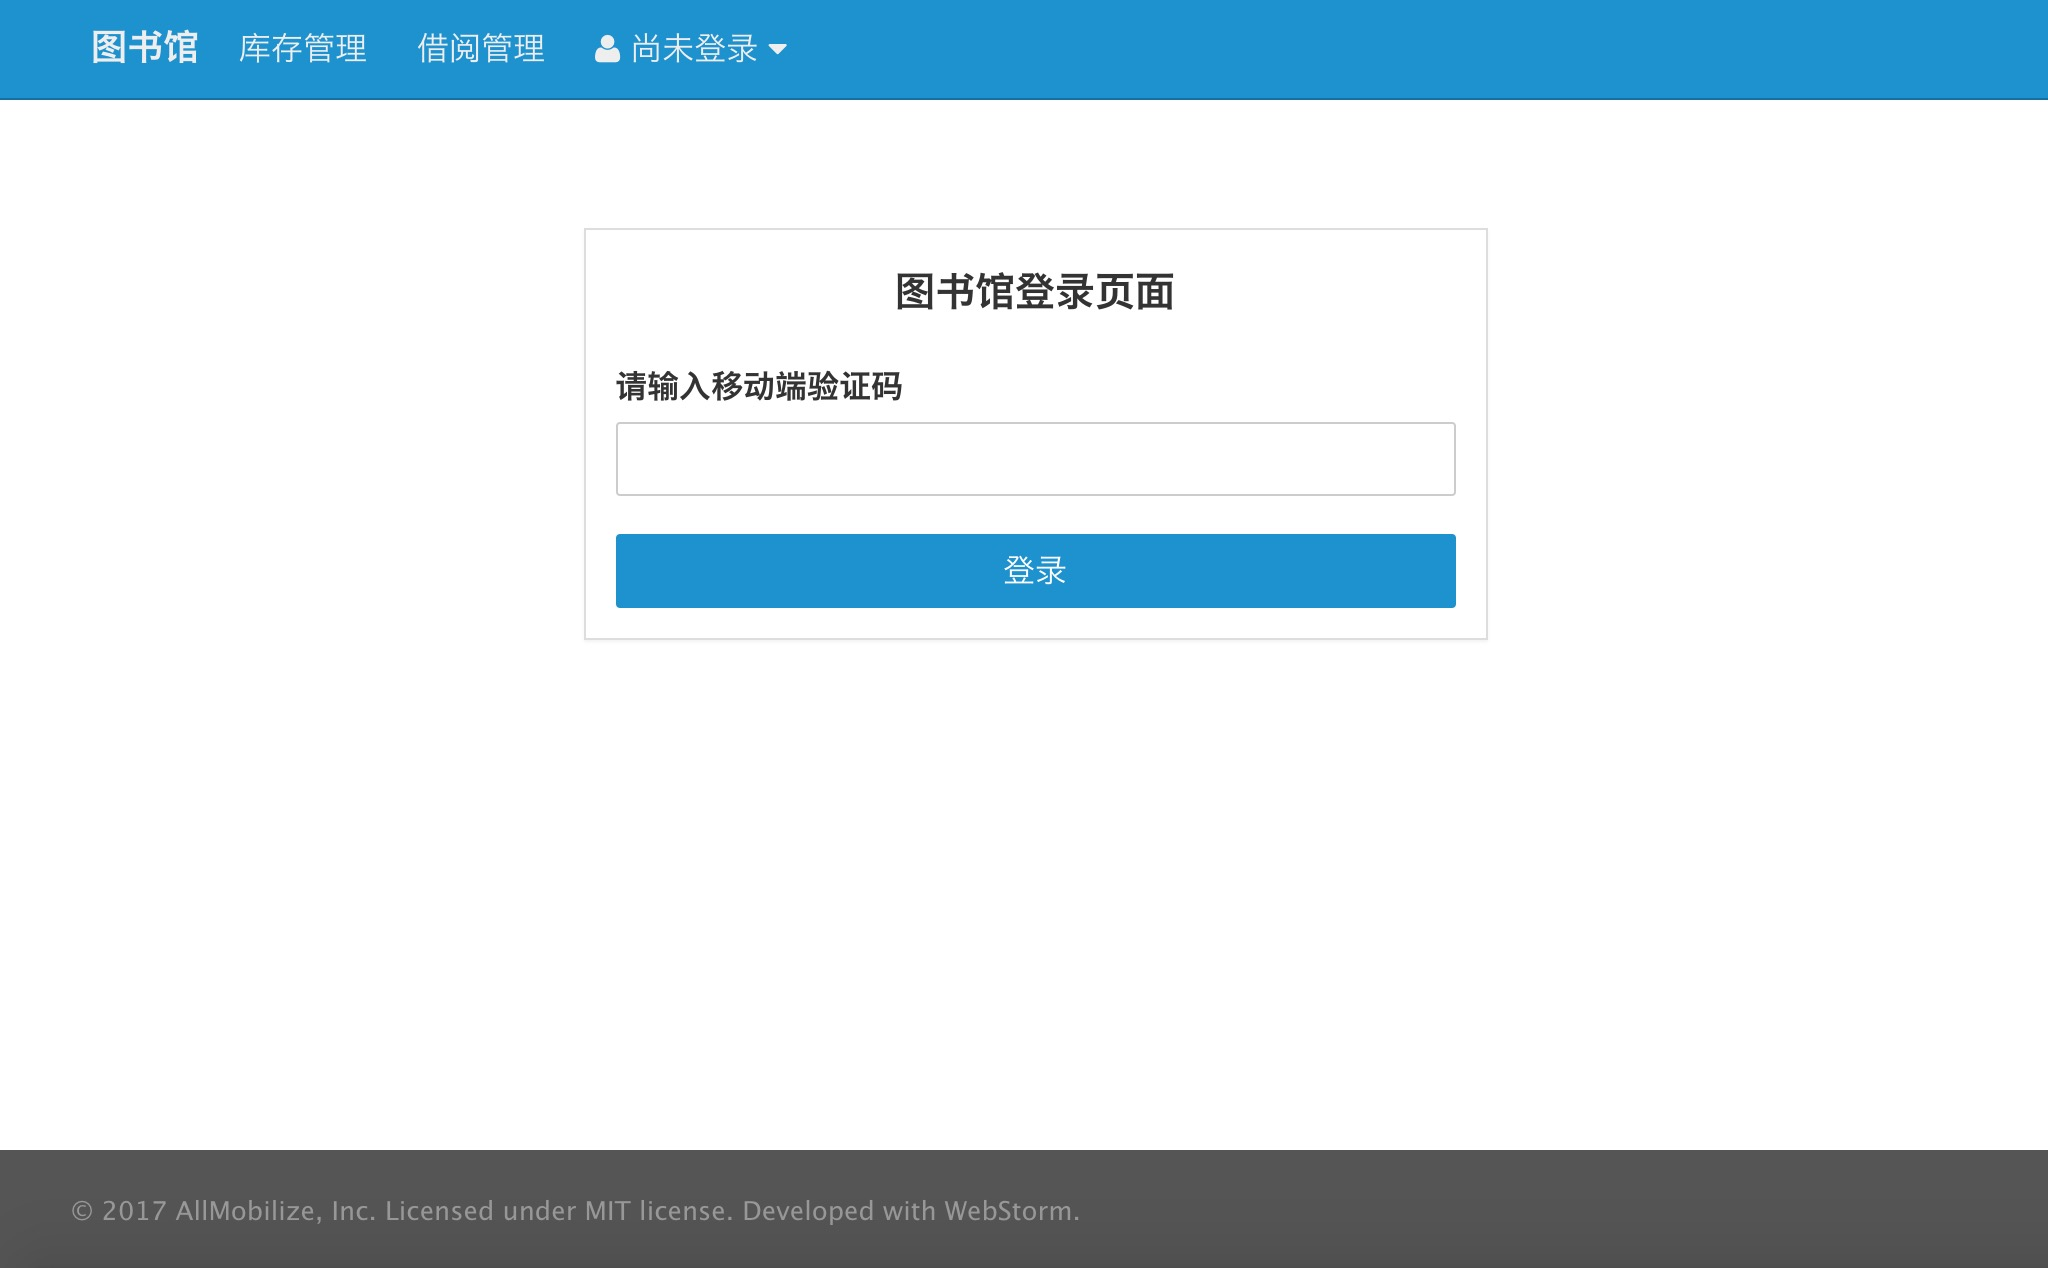
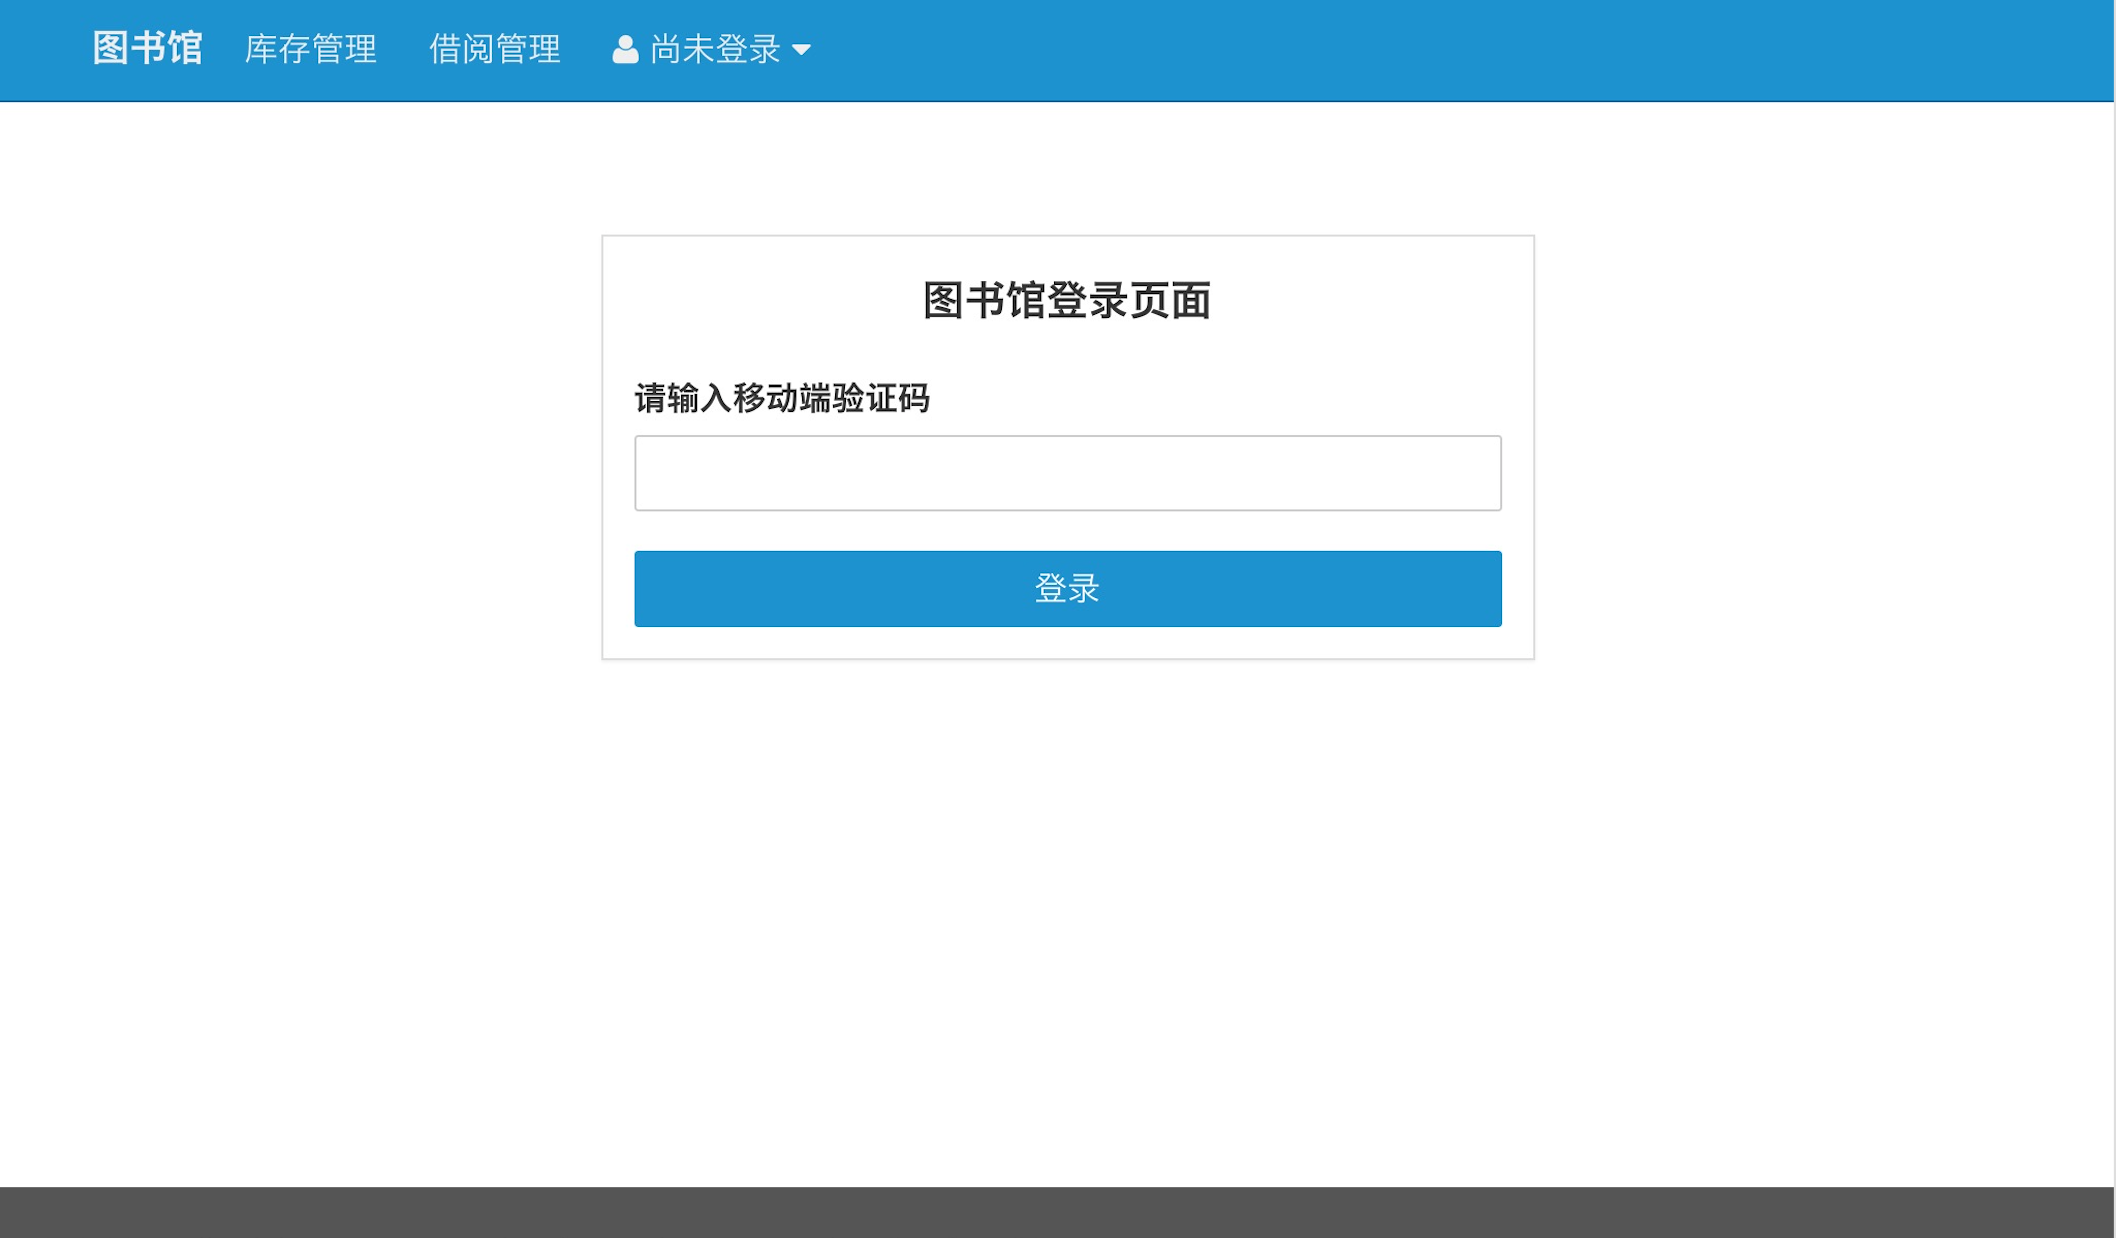
Add license

diff --git a/src/web/js/components/SiteFooter.js b/src/web/js/components/SiteFooter.js
@@ -3,15 +3,12 @@ import {
   Container,
 } from 'amazeui-react';
 
-const year = new Date().getFullYear();
-
 const SiteFooter = function SiteFooter() {
   return (
     <footer className="ask-footer">
       <Container>
         <p>
-          © {year} AllMobilize, Inc. Licensed under MIT license.
-          Developed with WebStorm.
+          © 2016 yahshonalbert.
         </p>
       </Container>
     </footer>

diff --git a/README.md b/README.md
@@ -4,6 +4,13 @@
 
 本项目使用 Node.js 开发，是一个与企业微信后台关联的图书管理系统，同时拥有 Web 端管理页面和移动端管理页面与用户页面。
 
+- [API入口](https://github.com/yashonalbert/library)
+- 后端采用 `Promise` 风格编写，使用 `Koa` 框架搭建服务路由，使用 `Sequelize` 构建 `SQLite` 数据库模型，用外键关联多表，用事务来保持并发一致性，用队列完成批量入库功能，确保爬虫爬取数据准确无重复。
+- 提供 `RESTful` 风格的 API，用户系统支持 `OAuth2`"
+使用 `Sentry` 进行错误监控，并使用 `Log4js` 在本地记录日志
+- WEB端使用 `AmazeUI-React`, 移动端使用 `AmazeUI-Touch` ,并使用 `WebPack` / `Gulp` 进行打包处理
+- 使用 `Electron` 打包为桌面应用程序"
+
 ## 用法
 
 ### 项目部署
